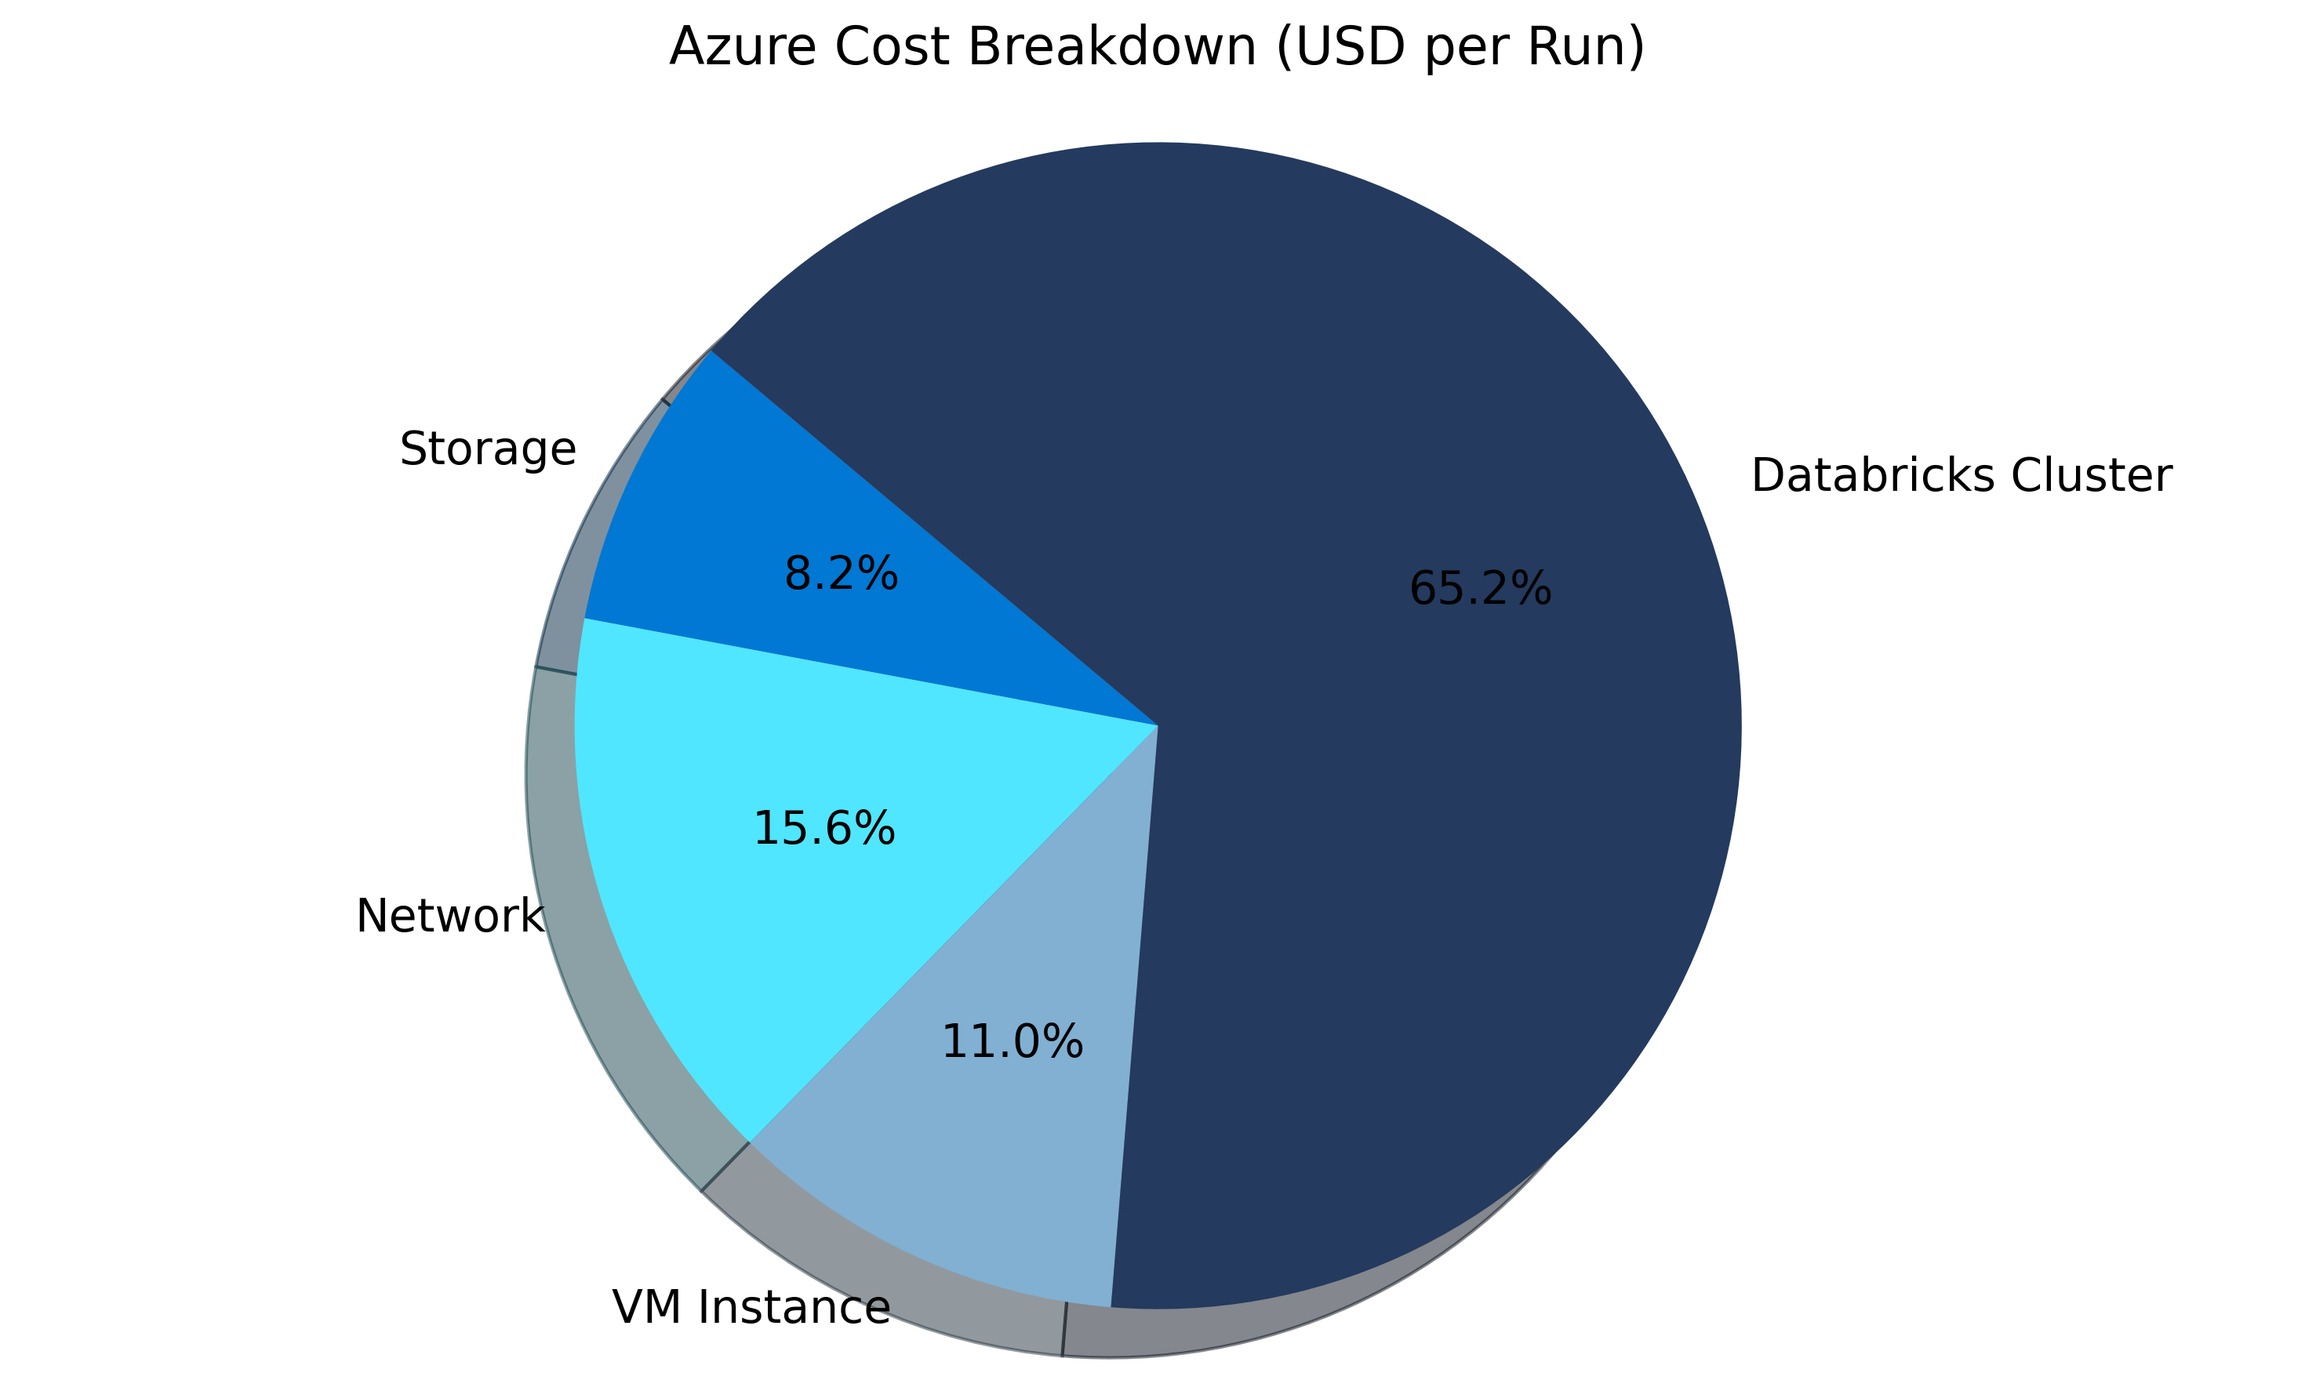
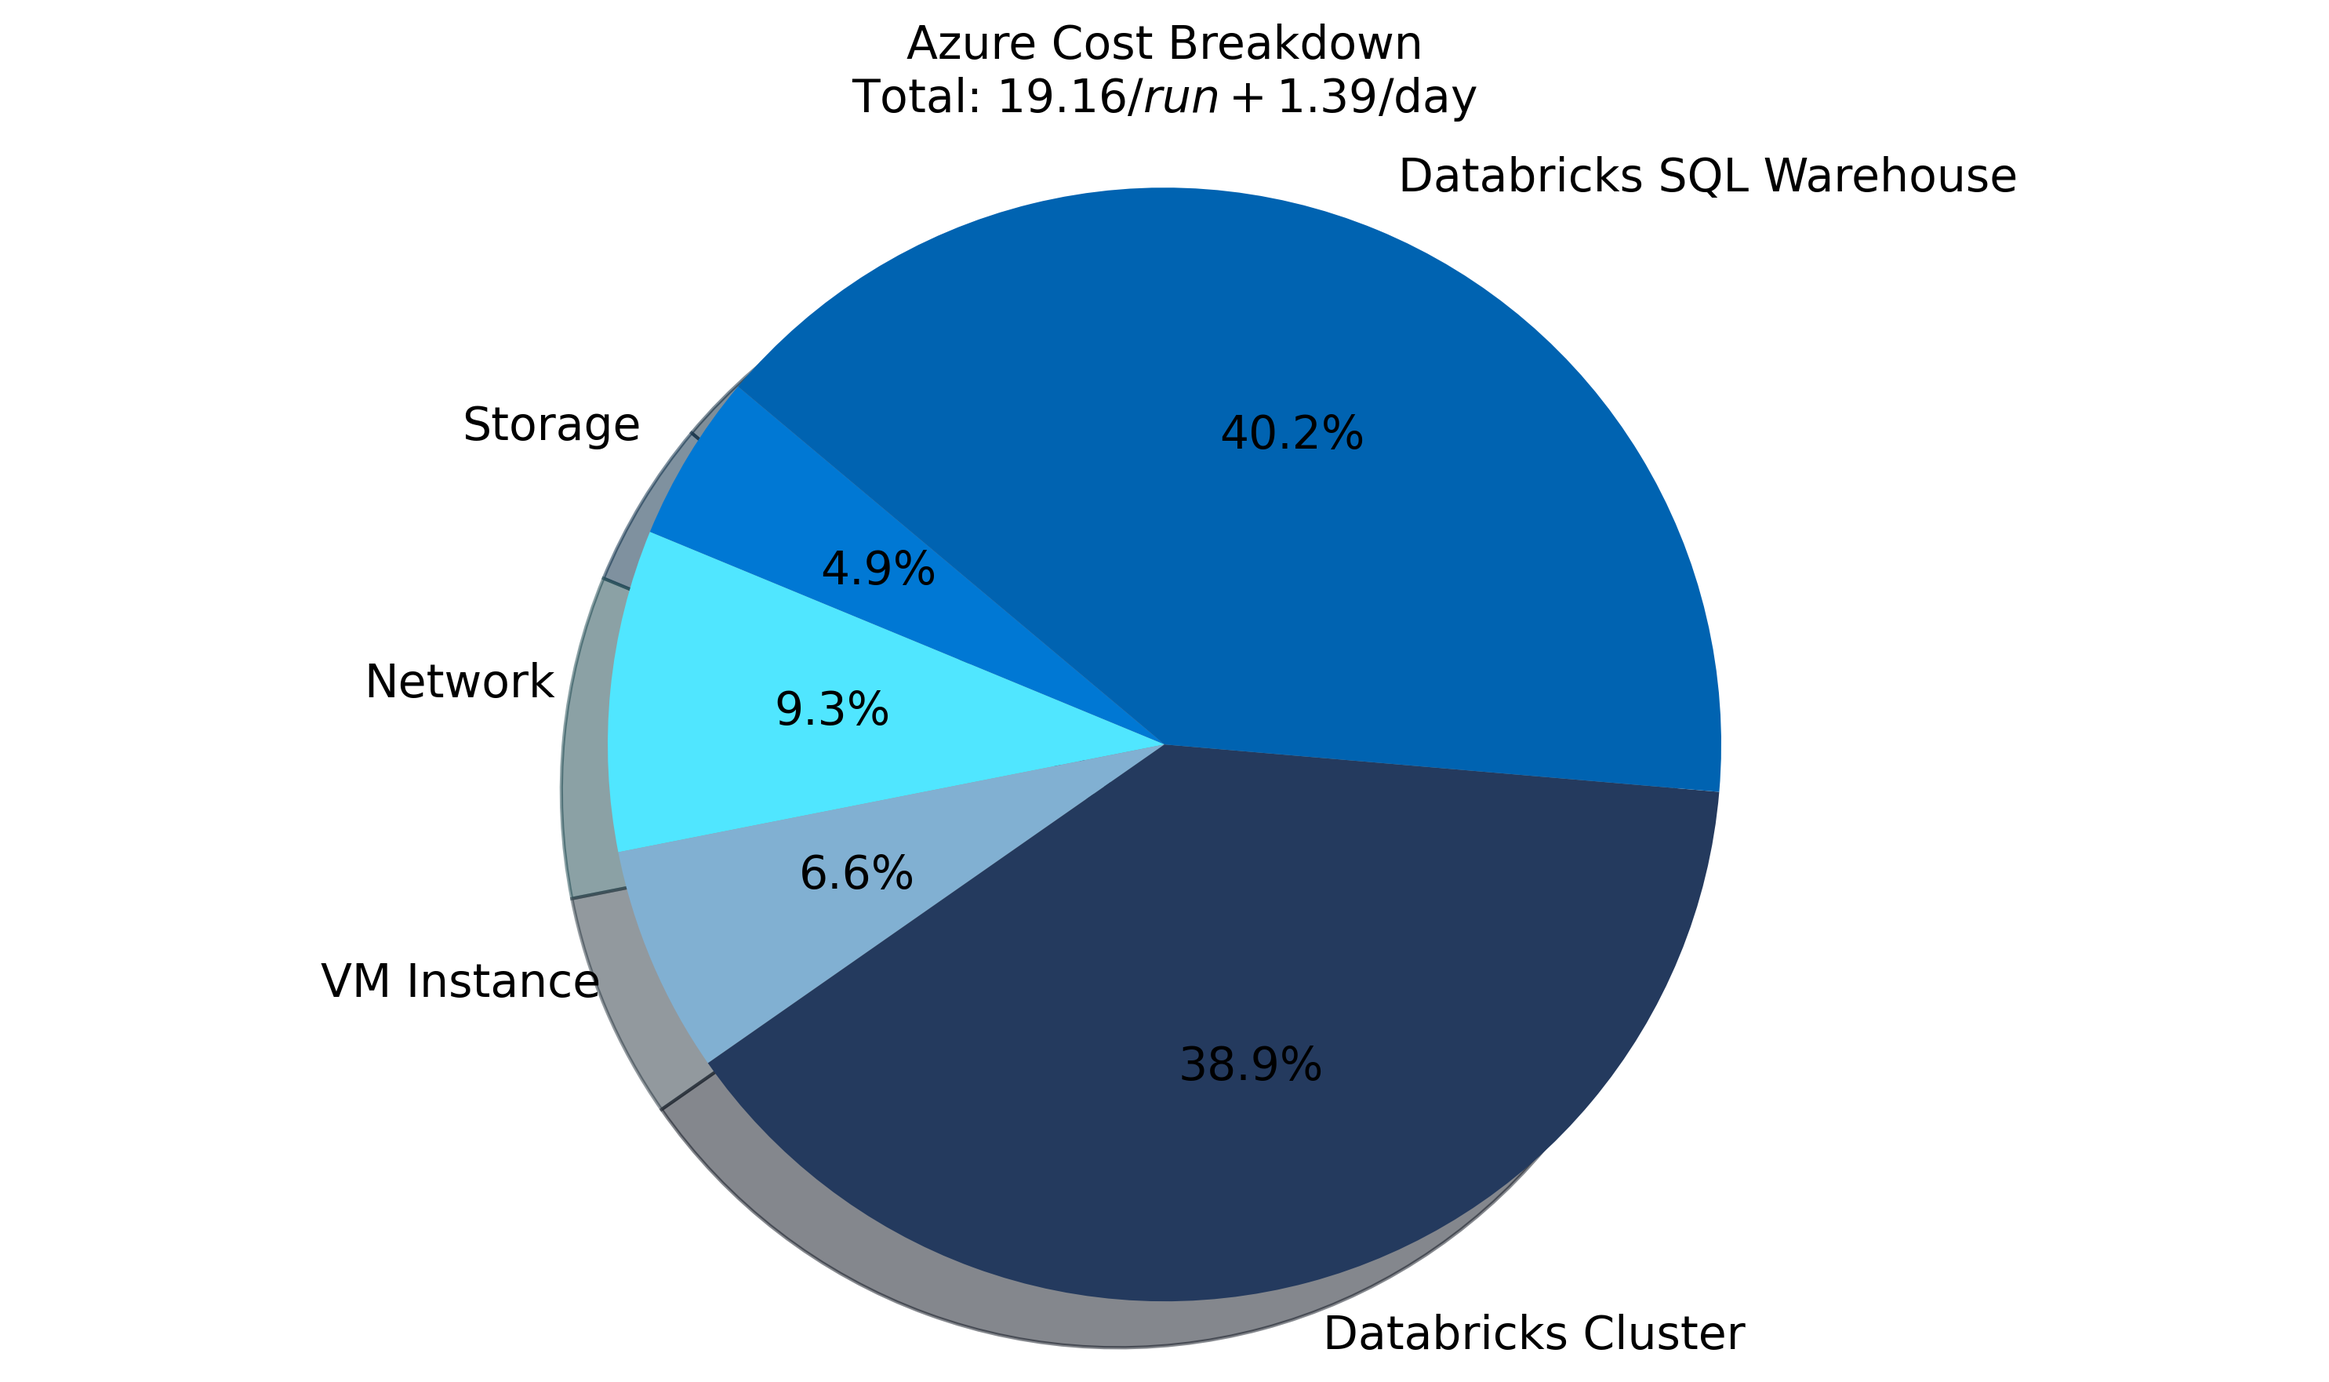
Update README.md: add snowflake cost and databricks sql transform cost, add new chart for comparison snowflake

diff --git a/create_cost_performance_charts.py b/create_cost_performance_charts.py
@@ -11,15 +11,19 @@ azure_storage = 1.39  # daily storage cost
 azure_network = 2.66  # data transfer cost per run
 azure_compute_vm = 1.88  # VM instance cost per run
 azure_compute_databricks = 11.10  # Databricks cluster cost per run
-azure_transform = 0  # Placeholder for Databricks SQL Warehouse (updating)
+azure_transform = 2.13  # Databricks SQL Warehouse cost per run
 
 # GCP costs
 gcp_storage = 0.67  # daily storage cost
 gcp_network = 12.98  # data egress cost per run
 gcp_compute_vm = 2.60  # VM instance cost per run
 gcp_compute_databricks = 14.22  # Databricks cluster cost per run
-gcp_transform = 0
-# gcp_transform = 7.84  # BigQuery transform cost per run
+gcp_transform = 7.84  # BigQuery transform cost per run
+gcp_transform_databricks = 2.7  # Databricks SQL Warehouse cost per run
+
+# Snowflake costs
+snowflake_egress_gcp = 6.37  # egress copy from GCP cost per run
+snowflake_transform = 30.0  # transform data cost per run
 
 # Calculate total costs (including network/egress)
 azure_total_with_network = azure_storage + azure_network + azure_compute_vm + azure_compute_databricks
@@ -28,6 +32,11 @@ gcp_total_with_network = gcp_storage + gcp_network + gcp_compute_vm + gcp_comput
 # Calculate total costs (excluding network/egress as per requirement)
 azure_total = azure_storage + azure_compute_vm + azure_compute_databricks
 gcp_total = gcp_storage + gcp_compute_vm + gcp_compute_databricks + gcp_transform
+
+# Calculate transform costs for comparison
+bigquery_transform = gcp_transform  # BigQuery transform cost
+databricks_gcp_transform = gcp_transform_databricks  # Databricks SQL Warehouse cost on GCP
+snowflake_transform_cost = snowflake_transform  # Snowflake transform cost
 
 # Performance comparison data (in minutes)
 # Azure performance
@@ -61,28 +70,43 @@ plt.close()
 
 # Create detailed cost breakdown for Azure
 plt.figure(figsize=(10, 6))
-azure_labels = ['Storage', 'Network', 'VM Instance', 'Databricks Cluster']
-azure_sizes = [azure_storage, azure_network, azure_compute_vm, azure_compute_databricks]
-azure_colors = ['#0078D4', '#50e6ff', '#81b0d2', '#243a5e']
+azure_labels = ['Storage', 'Network', 'VM Instance', 'Databricks Cluster', 'Databricks SQL Warehouse']
+azure_sizes = [azure_storage, azure_network, azure_compute_vm, azure_compute_databricks, azure_transform]
+azure_colors = ['#0078D4', '#50e6ff', '#81b0d2', '#243a5e', '#0063B1']
 
 plt.pie(azure_sizes, labels=azure_labels, colors=azure_colors, autopct='%1.1f%%',
         shadow=True, startangle=140, textprops={'fontsize': 14})
 plt.axis('equal')
-plt.title('Azure Cost Breakdown (USD per Run)', fontsize=16)
+plt.title('Azure Cost Breakdown\nTotal: $19.16/run + $1.39/day', fontsize=14)
 plt.tight_layout()
 plt.savefig('images/comparison/azure-cost-breakdown.png', dpi=300, bbox_inches='tight')
 plt.close()
 
-# Create detailed cost breakdown for GCP
-plt.figure(figsize=(10, 6))
-gcp_labels = ['Storage', 'Network Egress', 'VM Instance', 'Databricks Cluster', 'BigQuery Transform']
-gcp_sizes = [gcp_storage, gcp_network, gcp_compute_vm, gcp_compute_databricks, gcp_transform]
-gcp_colors = ['#4285F4', '#34A853', '#FBBC05', '#EA4335', '#5F6368']
+# Create detailed cost breakdown for GCP (with two options side by side)
+plt.figure(figsize=(20, 8))
 
-plt.pie(gcp_sizes, labels=gcp_labels, colors=gcp_colors, autopct='%1.1f%%',
-        shadow=True, startangle=140, textprops={'fontsize': 14})
+# First subplot - GCP with BigQuery
+plt.subplot(1, 2, 1)
+gcp_bigquery_labels = ['Storage', 'Network Egress', 'VM Instance', 'Databricks Cluster', 'BigQuery Transform']
+gcp_bigquery_sizes = [gcp_storage, gcp_network, gcp_compute_vm, gcp_compute_databricks, gcp_transform]
+gcp_bigquery_colors = ['#4285F4', '#34A853', '#FBBC05', '#EA4335', '#5F6368']
+
+plt.pie(gcp_bigquery_sizes, labels=gcp_bigquery_labels, colors=gcp_bigquery_colors, autopct='%1.1f%%',
+        shadow=True, startangle=140, textprops={'fontsize': 12})
 plt.axis('equal')
-plt.title('GCP Cost Breakdown (USD per Run)', fontsize=16)
+plt.title('GCP Cost Breakdown with BigQuery\nTotal: $38.31/run + $0.67/day', fontsize=14)
+
+# Second subplot - GCP with Databricks SQL Warehouse
+plt.subplot(1, 2, 2)
+gcp_databricks_labels = ['Storage', 'Network Egress', 'VM Instance', 'Databricks Cluster', 'Databricks SQL Warehouse']
+gcp_databricks_sizes = [gcp_storage, gcp_network, gcp_compute_vm, gcp_compute_databricks, gcp_transform_databricks]
+gcp_databricks_colors = ['#4285F4', '#34A853', '#FBBC05', '#EA4335', '#5F6368']  # Using same color as BigQuery Transform
+
+plt.pie(gcp_databricks_sizes, labels=gcp_databricks_labels, colors=gcp_databricks_colors, autopct='%1.1f%%',
+        shadow=True, startangle=140, textprops={'fontsize': 12})
+plt.axis('equal')
+plt.title('GCP Cost Breakdown with Databricks SQL\nTotal: $33.17/run + $0.67/day', fontsize=14)
+
 plt.tight_layout()
 plt.savefig('images/comparison/gcp-cost-breakdown.png', dpi=300, bbox_inches='tight')
 plt.close()
@@ -182,6 +206,33 @@ for i, bars in enumerate([azure_bars, gcp_bars]):
 
 plt.tight_layout()
 plt.savefig('images/comparison/transform-materialize-comparison.png', dpi=300, bbox_inches='tight')
+plt.close()
+
+# Create Transform Cost Comparison chart (BigQuery vs Databricks vs Snowflake)
+plt.figure(figsize=(12, 8))
+x = np.arange(3)  # 3 platforms
+width = 0.5
+
+# Use distinct colors
+platform_colors = ['#4285F4', '#EA4335', '#29B5E8']  # BigQuery blue, Databricks red, Snowflake blue
+transform_costs = [bigquery_transform, databricks_gcp_transform, snowflake_transform_cost]
+bars = plt.bar(x, transform_costs, width, color=platform_colors)
+plt.xlabel('Platform', fontsize=14)
+plt.ylabel('Transform Cost (USD per Run)', fontsize=14)
+plt.title('Transform Cost Comparison: BigQuery vs Databricks vs Snowflake', fontsize=16)
+plt.xticks(x, ['BigQuery', 'Databricks', 'Snowflake'], fontsize=12)
+plt.yticks(fontsize=12)
+
+# Set y-axis limit to leave more room for labels
+max_value = max(transform_costs)
+plt.ylim(0, max_value * 1.2)  # Add 20% more space at the top
+
+# Add value labels on top of bars
+for i, v in enumerate(transform_costs):
+    plt.text(i, v + (max_value * 0.03), f"${v:.2f}", ha='center', fontsize=12)
+
+plt.tight_layout()
+plt.savefig('images/comparison/transform-cost-comparison.png', dpi=300, bbox_inches='tight')
 plt.close()
 
 print("All charts have been generated and saved to the 'images/comparison' directory.")

diff --git a/README.md b/README.md
@@ -1,4 +1,4 @@
-# NYC Taxi Data Analytics with Databricks
+# NYC Taxi Data Analytics: Multi-Platform Comparison (Databricks, BigQuery, Snowflake)
 
 ## Table of Contents
 - [Overview](#overview)
@@ -43,9 +43,15 @@
 
 ## Overview
 
-An experimental data engineering project for processing and analyzing NYC Taxi data (1.4B+ records) using Databricks and Snowflake across different cloud vendors to compare performance and cost. This project extends the [Azure-Databricks-NYC-Taxi-Workshop](https://github.com/microsoft/Azure-Databricks-NYC-Taxi-Workshop) with significant performance improvements by replacing Spark transformations with SQL Cloud Data Warehouse, expanding the data range (2009–2017), and optimizing queries using BROADCAST hints.
+An experimental data engineering project for processing and analyzing NYC Taxi data (1.4B+ records) across multiple platforms (Databricks, BigQuery, Snowflake) and cloud vendors (Azure, GCP) to compare performance and cost. This project extends the [Azure-Databricks-NYC-Taxi-Workshop](https://github.com/microsoft/Azure-Databricks-NYC-Taxi-Workshop) with significant performance improvements by replacing Spark transformations with cloud-native SQL data warehousing solutions, expanding the data range (2009–2017), and optimizing queries using BROADCAST hints.
 
-Implemented on both Azure and Google Cloud Platform (GCP), this project demonstrates cloud-agnostic data engineering patterns while leveraging each platform's native services for storage, data warehousing, and secret management. The project also includes a performance comparison between Databricks and Snowflake for data transformation and materialization tasks.
+The project implements and benchmarks the same data pipeline across:
+- **Azure Databricks**: Using Azure Data Lake Storage and Databricks SQL Warehouse
+- **GCP Databricks**: Using Google Cloud Storage and Databricks SQL Warehouse
+- **GCP BigQuery**: Using Google Cloud Storage and BigQuery for transformations
+- **Snowflake**: Using Snowflake's data warehousing capabilities with data from GCP
+
+This multi-platform approach demonstrates cloud-agnostic data engineering patterns while leveraging each platform's native services for storage, data warehousing, and secret management. The comprehensive cost and performance analysis helps data engineers make informed decisions when selecting platforms for large-scale data processing workloads.
 
 ### Performance and Cost Visualizations
 
@@ -59,6 +65,12 @@ This section provides visual representations of the performance and cost metrics
 
 Azure's total cost per run is significantly lower than GCP's when excluding network/egress costs, which can vary significantly based on implementation details.
 
+##### Transform Cost Comparison Across Platforms
+
+![Transform Cost Comparison](images/comparison/transform-cost-comparison.png)
+
+This chart compares the transform costs across BigQuery, Databricks, and Snowflake. Databricks SQL Warehouse offers the most cost-effective solution at $2.70/run on GCP and $2.13/run on Azure, while Snowflake has the highest transform cost at $30.00/run.
+
 ##### Detailed Cost Breakdown by Provider
 
 ![Azure Cost Breakdown](images/comparison/azure-cost-breakdown.png)
@@ -67,7 +79,7 @@ Azure's costs are primarily driven by compute resources, particularly the Databr
 
 ![GCP Cost Breakdown](images/comparison/gcp-cost-breakdown.png)
 
-GCP's cost structure shows more diversity, with significant portions going to network egress, Databricks cluster, and BigQuery transform operations.
+GCP's cost structure is shown with two options: using BigQuery for transformations (left, $38.31/run) and using Databricks SQL Warehouse (right, $33.17/run). Both options show significant portions going to network egress and Databricks cluster, but differ in their transform costs.
 
 #### Performance Comparison Charts
 
@@ -82,12 +94,6 @@ GCP outperforms Azure in total execution time, completing the entire pipeline in
 ![Performance Breakdown Bar Chart](images/comparison/performance-breakdown-bar.png)
 
 The detailed breakdown shows that while both platforms have similar patterns (with data conversion taking the most time), GCP significantly outperforms Azure in the transformation and materialization steps.
-
-##### Transform and Materialize Performance
-
-![Transform and Materialize Comparison](images/comparison/transform-materialize-comparison.png)
-
-This zoomed-in view highlights the dramatic performance difference in the transformation and materialization steps, where GCP's BigQuery shows substantial advantages over Azure's Databricks SQL Warehouse.
 
 ## Modifications from Original Workshop
 
@@ -303,33 +309,60 @@ We tracked the costs associated with running our data pipeline across both cloud
 | | **Network** | Data Transfer | Azure Data Factory | $2.66/run |
 | | **Compute** | Convert CSV to Parquet | VM Instance | $1.88/run |
 | | | | Databricks Cluster Spark Computing | $11.10/run |
-| | | Transform Data | Databricks SQL Warehouse | Updating |
+| | | Transform Data | Databricks SQL Warehouse | $2.13/run |
+| | **TOTAL** | | | **$19.16/run** + $1.39/day |
 |||||
 | **GCP** | **Storage** | Daily Storage | GCS + BigQuery | $0.67/day |
 | | **Network** | Data Egress | Storage Transfer | $12.98/run |
 | | **Compute** | Convert CSV to Parquet | VM Instance | $2.60/run |
 | | | | Databricks Cluster Spark Computing | $14.22/run |
-| | | Transform Data | BigQuery | $7.84/run |
+| | | Transform Data (Option 1) | BigQuery | $7.84/run |
+| | | Transform Data (Option 2) | Databricks SQL Warehouse | $2.70/run |
+| | **TOTAL (with BigQuery)** | | | **$38.31/run** + $0.67/day |
+| | **TOTAL (with Databricks SQL)** | | | **$33.17/run** + $0.67/day |
+|||||
+| **Snowflake** | **Network** | Egress Copy from GCP | Snowflake | $6.37/run |
+| | **Compute** | Transform Data | Snowflake | $30.00/run |
+| | **TOTAL** | | | **$36.37/run** |
 
 ### Key Cost Insights
+
+- **Total Cost Comparison**: 
+  - **Azure** offers the lowest total cost at **$19.16/run** (plus daily storage)
+  - **GCP with Databricks SQL** costs **$33.17/run** (plus daily storage)
+  - **GCP with BigQuery** costs **$38.31/run** (plus daily storage)
+  - **Snowflake** costs **$36.37/run**
 
 - **Storage Cost Comparison**: Azure storage costs ($1.39/day) are approximately twice as expensive as GCP storage ($0.67/day) for similar workloads and data volumes.
   
 - **Data Egress Considerations**: When ingesting data, be mindful of egress charges when moving data between different cloud vendors. These charges can be significant ($12.98/run in our GCP implementation) and should be avoided when possible by keeping data processing within a single cloud ecosystem.
 
+- **Transform Cost Comparison**: There are significant differences in transform costs across platforms:
+  - Databricks SQL Warehouse is the most cost-effective option on both Azure ($2.13/run) and GCP ($2.70/run)
+  - BigQuery is moderately priced at $7.84/run
+  - Snowflake is the most expensive at $30.00/run, plus additional egress costs ($6.37/run) when copying data from GCP
+
 ### Key Observations
 
 1. **Cost vs. Performance Tradeoff**: 
-   - Azure offers lower overall cost but slower performance
-   - GCP provides faster processing but at a higher cost
+   - **Azure** offers the **lowest overall cost** ($19.16/run) but slower performance
+   - **GCP** provides **fastest processing** but at a **higher cost** ($33.17-$38.31/run)
+   - **Snowflake** has the **highest transform cost** ($30.00/run) with moderate performance
 
 2. **Transformation Speed**: 
    - GCP's BigQuery significantly outperforms Azure's Databricks SQL Warehouse for transformation tasks (1.62 min vs. 11.47 min)
    - GCP's materialization is also much faster (1.05 min vs. 14.43 min)
+   - Snowflake's performance falls between Azure and GCP (26.41 min for transform, 23.54 min for materialize)
 
 3. **Cost Structure Differences**:
    - Azure's costs are dominated by compute (Databricks cluster)
    - GCP's costs are heavily influenced by network egress charges
+   - Snowflake has high transform costs plus additional egress charges when copying data from other cloud providers
+
+4. **Platform Selection Considerations**:
+   - For cost-sensitive workloads: Databricks SQL Warehouse on Azure offers the best value
+   - For performance-critical workloads: BigQuery on GCP provides the fastest processing
+   - For cross-cloud scenarios: Consider the additional egress costs when moving data between platforms
 
 ## Benchmark Results
 
